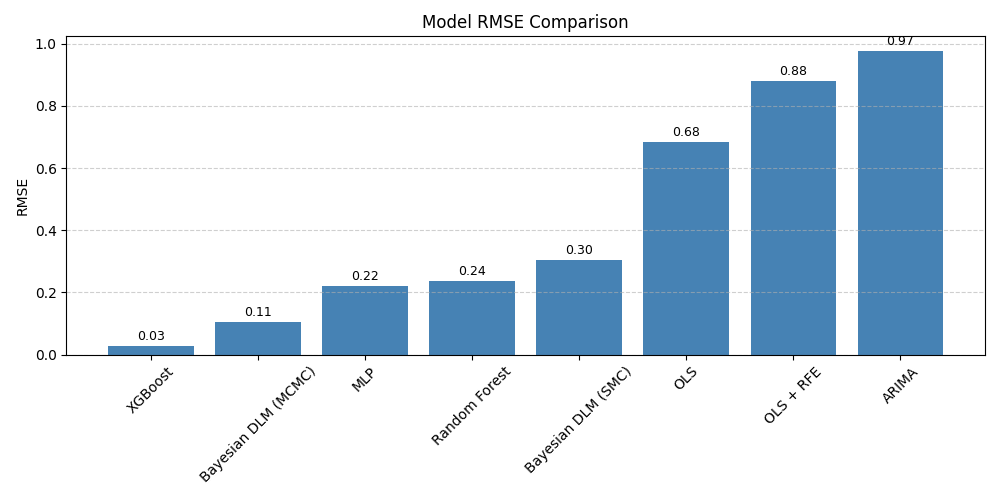
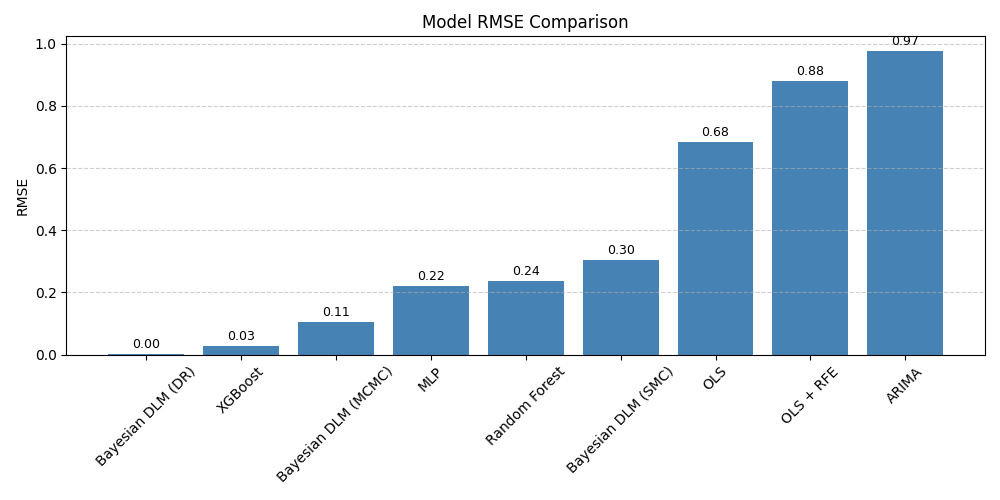
Add Bayesian DLM model and evaluation pipeline

diff --git a/src/bayesian_dlm_reg.py b/src/bayesian_dlm_reg.py
@@ -1,0 +1,92 @@
+import numpy as np
+import jax
+import jax.numpy as jnp
+import numpyro
+import numpyro.distributions as dist
+from numpyro.infer import MCMC, NUTS
+from sklearn.preprocessing import StandardScaler
+import matplotlib.pyplot as plt
+import arviz as az
+
+def dlm_model(X, y=None):
+    T, P = X.shape
+
+    sigma = numpyro.sample("sigma", dist.Exponential(1.0))
+
+    # Gaussian Random Walk for each coefficient over time
+    # We'll model increments ~ Normal(0, 0.1), then cumulative sum to get beta_t
+    beta_increments = numpyro.sample("beta_increments", dist.Normal(0, 0.1).expand([T, P]))
+    beta = numpyro.deterministic("beta", jnp.cumsum(beta_increments, axis=0))  # shape (T, P)
+
+    mu = (X * beta).sum(axis=1)
+    numpyro.deterministic("mu", mu)
+
+    numpyro.sample("obs", dist.Normal(mu, sigma), obs=y)
+
+
+def run_dlm_dynamic_regression(df, target_col, num_warmup=1500, num_samples=5000, num_chains=4):
+    """ keep_cols = [
+        "Unemployment - %",
+        "Economic_sentiment",
+        "Exchangerate_CPI",
+        "10years_gov_bond_rate"
+    ]
+
+    X = df[keep_cols].copy()
+    y = df[target_col].copy() """
+
+    X = df.drop(columns=[target_col]).copy()
+    y = df[target_col].copy()
+
+    X, y = X.align(y, join='inner', axis=0)
+    X = X.dropna()
+    y = y.loc[X.index]
+
+    scaler_X = StandardScaler()
+    scaler_y = StandardScaler()
+
+    X_scaled = scaler_X.fit_transform(X)
+    y_scaled = scaler_y.fit_transform(y.values.reshape(-1, 1)).flatten()
+
+    kernel = NUTS(dlm_model)
+    mcmc = MCMC(kernel, num_warmup=num_warmup, num_samples=num_samples, num_chains=num_chains)
+    rng_key = jax.random.PRNGKey(42)
+
+    mcmc.run(rng_key, X=jnp.array(X_scaled), y=jnp.array(y_scaled))
+
+    samples = mcmc.get_samples()
+
+    mean_beta = jnp.mean(samples["beta"], axis=0)  # (T, P)
+    mean_mu = jnp.mean(samples["mu"], axis=0)  # (T,)
+
+    # Convert back to numpy
+    mean_beta = np.array(mean_beta)
+    mean_mu = np.array(mean_mu)
+
+    time_index = y.index.to_numpy()
+
+    # Plot posterior means of beta_t
+    plt.figure(figsize=(12, 6))
+    for j in range(mean_beta.shape[1]):
+        plt.plot(time_index, mean_beta[:, j], label=X.columns[j])
+    plt.title("Posterior Mean of Time-Varying Coefficients (NumPyro)")
+    plt.legend()
+    plt.tight_layout()
+    plt.savefig("results/dlm_dynamic_betas_numpyro.png")
+    plt.close()
+
+    # Forecast vs Actual
+    plt.figure(figsize=(10, 4))
+    plt.plot(time_index, y_scaled, label="Observed (scaled)")
+    plt.plot(time_index, mean_mu, label="DLM Prediction (scaled)", linestyle="--")
+    plt.title("Dynamic Linear Regression Forecast (NumPyro)")
+    plt.legend()
+    plt.tight_layout()
+    plt.savefig("results/dlm_dynamic_forecast_numpyro.png")
+    plt.close()
+
+    residuals = mean_mu - y_scaled
+    rmse = np.sqrt(np.mean(residuals ** 2))
+    print(f"NumPyro DLM RMSE (scaled): {rmse:.4f}")
+
+    return samples, rmse

diff --git a/main.py b/main.py
@@ -2,7 +2,7 @@ import os
 import time
 from tqdm import tqdm
 import pandas as pd
-
+import numpy as np
 from src.preprocessing import load_and_clean_data
 from src.arima_baseline import run_arima
 from src.regression_ols import run_ols, run_ols_feature_selection
@@ -10,6 +10,7 @@ from src.ml_models import run_rf, run_xgboost, run_mlp
 from src.bayesian_dlm_mcmc import run_dlm_pymc
 from src.bayesian_dlm_smc import run_dlm_numpyro
 from src.metrics import plot_model_comparison
+from src.bayesian_dlm_reg import run_dlm_dynamic_regression
 
 # 📁 Create folders if they don't exist
 os.makedirs("results", exist_ok=True)
@@ -36,7 +37,8 @@ models = [
     ("XGBoost", "🤖 Gradient Boosting"),
     ("MLP", "🤖 Neural Network"),
     ("Bayesian DLM (MCMC)", "🧠 Bayesian MCMC"),
-    ("Bayesian DLM (SMC)", "🧠 Sequential Monte Carlo")
+    ("Bayesian DLM (SMC)", "🧠 Sequential Monte Carlo"),
+    ("Bayesian DLM (DR)", "🧠 Dynamic Coefficients")
 ]
 
 # Initialize results dictionary
@@ -75,7 +77,9 @@ for model_name, model_desc in main_pbar:
             
         elif model_name == "Bayesian DLM (SMC)":
             _, rmse = run_dlm_numpyro(df, target_col)
-        
+        elif model_name == "Bayesian DLM (DR)":
+            trace, rmse = run_dlm_dynamic_regression(df, target_col)
+                    
         # Store result
         rmse_results[model_name] = rmse
         
